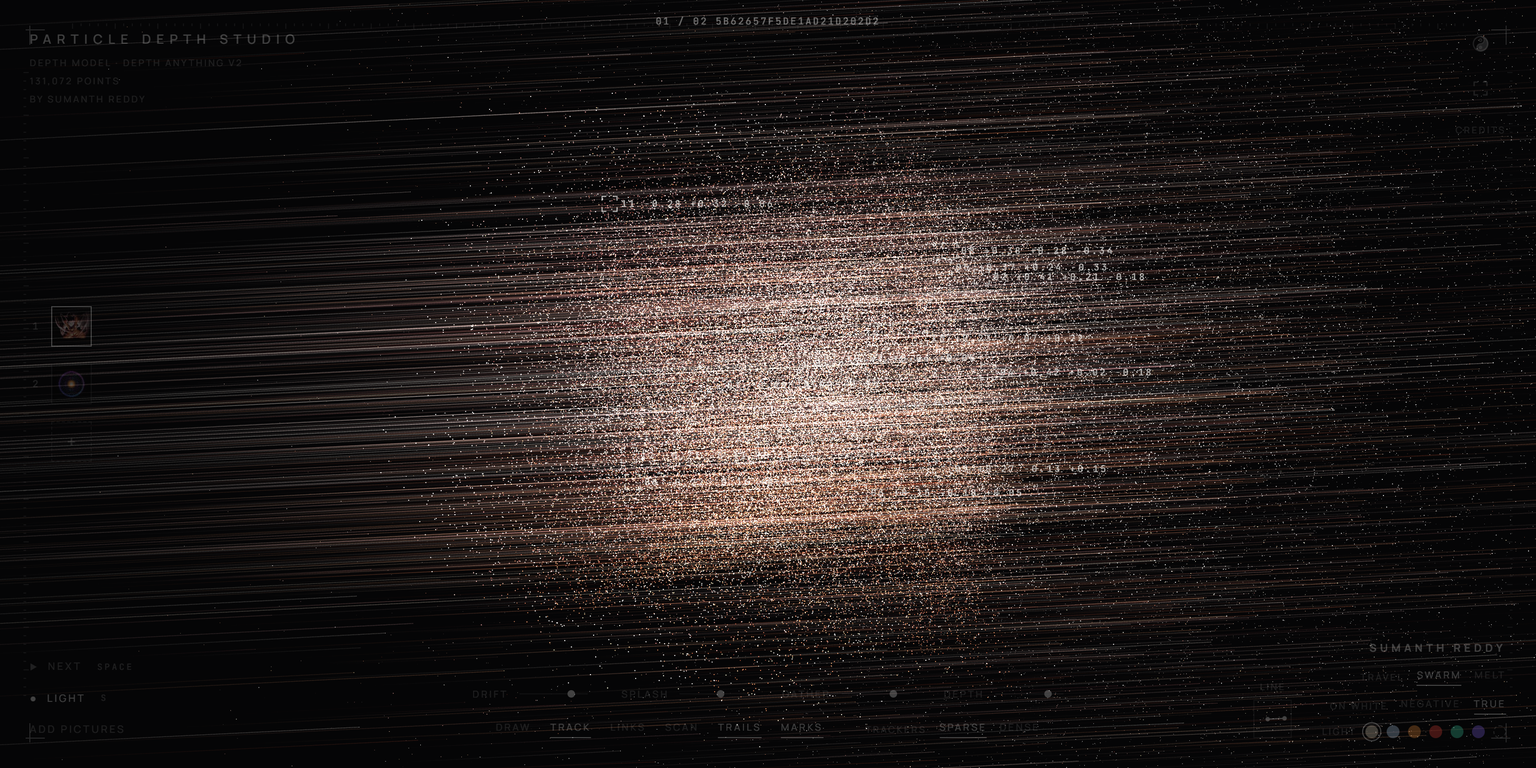
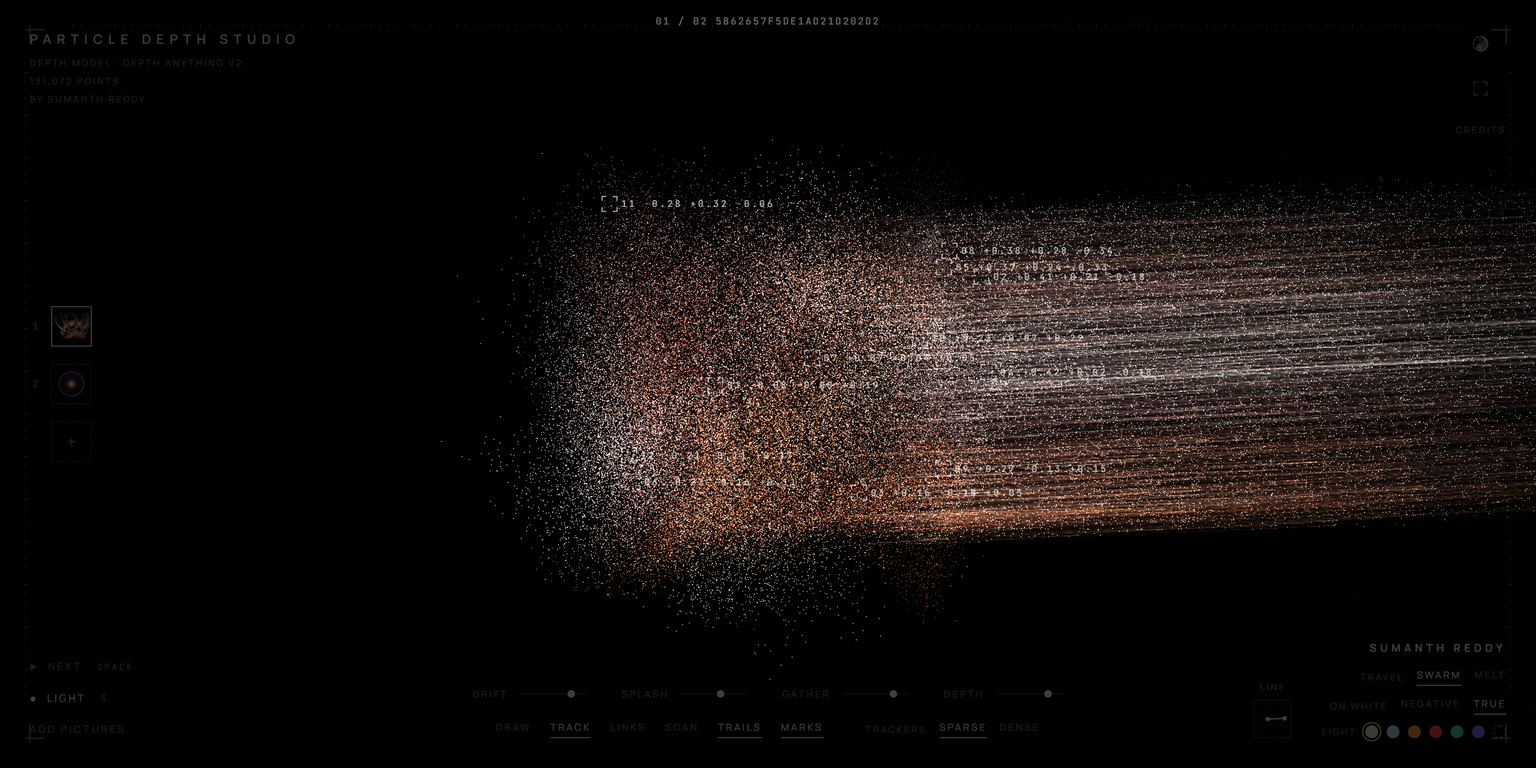
feat: implement high-fidelity particle disintegration with half-res trail persistence and laminar wind peeling

diff --git a/src/core/ParticleRenderer.ts b/src/core/ParticleRenderer.ts
@@ -4,6 +4,9 @@ import particleVert from '../shaders/particle.vert.glsl';
 import particleFrag from '../shaders/particle.frag.glsl';
 import streakVert from '../shaders/streak.vert.glsl';
 import streakFrag from '../shaders/streak.frag.glsl';
+import fullscreenVert from '../shaders/fullscreen.vert.glsl';
+import trailDecayFrag from '../shaders/trail_decay.frag.glsl';
+import compositeFrag from '../shaders/composite.frag.glsl';
 import type { Params } from './params';
 
 export interface TrackerPoint {
@@ -34,6 +37,16 @@ export class ParticleRenderer {
 
   private streakMesh!: THREE.LineSegments;
   private streakMaterial!: THREE.ShaderMaterial;
+
+  // PRD 8.5 Trail Persistence & Composite Render Targets
+  private rtScene!: THREE.WebGLRenderTarget;
+  private rtTrailA!: THREE.WebGLRenderTarget;
+  private rtTrailB!: THREE.WebGLRenderTarget;
+  private quadCamera!: THREE.OrthographicCamera;
+  private quadScene!: THREE.Scene;
+  private quadMesh!: THREE.Mesh;
+  private decayMaterial!: THREE.ShaderMaterial;
+  private compositeMaterial!: THREE.ShaderMaterial;
 
   private width: number;
   private height: number;
@@ -71,6 +84,61 @@ export class ParticleRenderer {
 
     this.initPoints();
     this.initStreaks();
+    this.initRenderTargetsAndQuad();
+  }
+
+  private initRenderTargetsAndQuad(): void {
+    const dpr = Math.min(2.0, window.devicePixelRatio || 1.0);
+    const fullW = Math.max(1, Math.floor(this.width * dpr));
+    const fullH = Math.max(1, Math.floor(this.height * dpr));
+    const halfW = Math.max(1, Math.floor(fullW / 2));
+    const halfH = Math.max(1, Math.floor(fullH / 2));
+
+    const rtOptions: THREE.RenderTargetOptions = {
+      type: THREE.HalfFloatType,
+      format: THREE.RGBAFormat,
+      minFilter: THREE.LinearFilter,
+      magFilter: THREE.LinearFilter,
+      depthBuffer: false,
+      stencilBuffer: false,
+    };
+
+    this.rtScene = new THREE.WebGLRenderTarget(fullW, fullH, { ...rtOptions, depthBuffer: true });
+    this.rtTrailA = new THREE.WebGLRenderTarget(halfW, halfH, rtOptions);
+    this.rtTrailB = new THREE.WebGLRenderTarget(halfW, halfH, rtOptions);
+
+    this.quadCamera = new THREE.OrthographicCamera(-1, 1, 1, -1, 0, 1);
+    this.quadScene = new THREE.Scene();
+    const quadGeom = new THREE.PlaneGeometry(2, 2);
+
+    this.decayMaterial = new THREE.ShaderMaterial({
+      vertexShader: fullscreenVert,
+      fragmentShader: trailDecayFrag,
+      uniforms: {
+        tCurrent: { value: null },
+        tPrior: { value: null },
+        uDecay: { value: 0.94 },
+        uClear: { value: 0.0 },
+      },
+      depthTest: false,
+      depthWrite: false,
+    });
+
+    this.compositeMaterial = new THREE.ShaderMaterial({
+      vertexShader: fullscreenVert,
+      fragmentShader: compositeFrag,
+      uniforms: {
+        tScene: { value: null },
+        tTrail: { value: null },
+        uTrailsEnabled: { value: 1.0 },
+        uOnWhite: { value: 0.0 },
+      },
+      depthTest: false,
+      depthWrite: false,
+    });
+
+    this.quadMesh = new THREE.Mesh(quadGeom, this.compositeMaterial);
+    this.quadScene.add(this.quadMesh);
   }
 
   private initPoints(): void {
@@ -100,9 +168,9 @@ export class ParticleRenderer {
         uSize: { value: 1.4 },
         uDpr: { value: Math.min(2.0, window.devicePixelRatio || 1.0) },
         uMorph: { value: 0.0 },
+        uDrift: { value: 0.8 },
         uLightColor: { value: new THREE.Vector3(0.95, 0.90, 0.79) },
         uLightOn: { value: 1.0 },
-        uDrift: { value: 0.8 },
         uScan: { value: 0.0 },
         uScanActive: { value: 0.0 },
         uLine: { value: new THREE.Vector2(0.4, 0.3) },
@@ -161,7 +229,6 @@ export class ParticleRenderer {
         uDrift: { value: 0.8 },
         uLightColor: { value: new THREE.Vector3(0.95, 0.90, 0.79) },
         uLightOn: { value: 1.0 },
-        uDrift: { value: 0.8 },
         uScan: { value: 0.0 },
         uScanActive: { value: 0.0 },
         uNegative: { value: 0.0 },
@@ -242,14 +309,14 @@ export class ParticleRenderer {
     const isNegative = params.colorMode === 'negative';
 
     if (isOnWhite) {
-      this.renderer.setClearColor(0xf8f8f7, 1);
       this.pointsMaterial.blending = THREE.NormalBlending;
       this.streakMaterial.blending = THREE.NormalBlending;
     } else {
-      this.renderer.setClearColor(0x050506, 1);
       this.pointsMaterial.blending = THREE.AdditiveBlending;
       this.streakMaterial.blending = THREE.AdditiveBlending;
     }
+
+    const clearColor = isOnWhite ? 0xf8f8f7 : 0x050506;
 
     // Update Points uniforms
     const pu = this.pointsMaterial.uniforms;
@@ -279,8 +346,8 @@ export class ParticleRenderer {
       su['tColor'].value = colorTexture;
       su['uLine'].value.set(lineX, lineY);
       su['uDrift'].value = params.drift;
-      // Drift controls the trail's lengths toward the set direction
-      su['uStreakLength'].value = (0.2 + params.drift * 2.2) * params.line.length;
+      // Drift controls the trail's lengths toward the set direction (approx 20px - 70px)
+      su['uStreakLength'].value = (0.025 + params.drift * 0.075) * params.line.length;
       su['uScan'].value = scanProgress;
       su['uScanActive'].value = params.scan ? 1.0 : 0.0;
       su['uLightColor'].value.copy(lightVec);
@@ -289,7 +356,61 @@ export class ParticleRenderer {
       su['uOnWhite'].value = isOnWhite ? 1.0 : 0.0;
     }
 
+    // 1. Trail feedback persistence pass (PRD Section 8.5)
+    // Only moving streaks accumulate and decay by 0.94, leaving static particles 100% crisp!
+    if (params.trails) {
+      // Step A: Decay prior trail frame by 0.94 into rtTrailB
+      this.renderer.setRenderTarget(this.rtTrailB);
+      this.renderer.clear();
+      this.quadMesh.material = this.decayMaterial;
+      this.decayMaterial.uniforms['tPrior'].value = this.rtTrailA.texture;
+      this.decayMaterial.uniforms['uDecay'].value = 0.94;
+      this.decayMaterial.uniforms['uClear'].value = 0.0;
+      this.renderer.render(this.quadScene, this.quadCamera);
+
+      // Step B: Render active streaks additively on top of decayed trail buffer
+      this.pointsMesh.visible = false;
+      this.streakMesh.visible = true;
+      this.renderer.autoClear = false;
+      this.renderer.render(this.scene, camera);
+      this.renderer.autoClear = true;
+      this.pointsMesh.visible = true;
+
+      // Step C: Swap ping-pong handles
+      const tmp = this.rtTrailA;
+      this.rtTrailA = this.rtTrailB;
+      this.rtTrailB = tmp;
+    } else {
+      // TRAILS off clears target
+      this.decayMaterial.uniforms['uClear'].value = 1.0;
+      this.renderer.setRenderTarget(this.rtTrailA);
+      this.renderer.setClearColor(0x000000, 0);
+      this.renderer.clear();
+      this.renderer.setRenderTarget(this.rtTrailB);
+      this.renderer.setClearColor(0x000000, 0);
+      this.renderer.clear();
+    }
+
+    // 2. Render live foreground scene (points + streaks) into full-res rtScene
+    this.streakMesh.visible = params.trails && this.hasActiveImage;
+    this.renderer.setRenderTarget(this.rtScene);
+    this.renderer.setClearColor(clearColor, 1);
+    this.renderer.clear();
     this.renderer.render(this.scene, camera);
+
+    // 3. Final composite pass to screen canvas with Bayer ordered dither
+    this.renderer.setRenderTarget(null);
+    this.renderer.setClearColor(clearColor, 1);
+    this.renderer.clear();
+
+    this.quadMesh.material = this.compositeMaterial;
+    const cu = this.compositeMaterial.uniforms;
+    cu['tScene'].value = this.rtScene.texture;
+    cu['tTrail'].value = this.rtTrailA.texture;
+    cu['uTrailsEnabled'].value = params.trails ? 1.0 : 0.0;
+    cu['uOnWhite'].value = isOnWhite ? 1.0 : 0.0;
+
+    this.renderer.render(this.quadScene, this.quadCamera);
   }
 
   public getTrackerPoints(
@@ -332,7 +453,17 @@ export class ParticleRenderer {
     this.width = width;
     this.height = height;
     this.renderer.setSize(width, height);
-    this.pointsMaterial.uniforms['uDpr'].value = Math.min(2.0, window.devicePixelRatio || 1.0);
+    const dpr = Math.min(2.0, window.devicePixelRatio || 1.0);
+    this.pointsMaterial.uniforms['uDpr'].value = dpr;
+
+    const fullW = Math.max(1, Math.floor(width * dpr));
+    const fullH = Math.max(1, Math.floor(height * dpr));
+    const halfW = Math.max(1, Math.floor(fullW / 2));
+    const halfH = Math.max(1, Math.floor(fullH / 2));
+
+    this.rtScene.setSize(fullW, fullH);
+    this.rtTrailA.setSize(halfW, halfH);
+    this.rtTrailB.setSize(halfW, halfH);
   }
 
   public dispose(): void {
@@ -340,6 +471,12 @@ export class ParticleRenderer {
     this.pointsMaterial.dispose();
     this.streakMesh.geometry.dispose();
     this.streakMaterial.dispose();
+    this.rtScene.dispose();
+    this.rtTrailA.dispose();
+    this.rtTrailB.dispose();
+    this.quadMesh.geometry.dispose();
+    this.decayMaterial.dispose();
+    this.compositeMaterial.dispose();
     this.renderer.dispose();
   }
 }

diff --git a/docs/RESEARCH_DISSOLUTION_EFFECT.md b/docs/RESEARCH_DISSOLUTION_EFFECT.md
@@ -1,0 +1,72 @@
+# Research Report: High-Fidelity Particle Disintegration & Disappearing Effect
+
+**Target Reference:** `docs/reference/ref-target-trail.png`  
+**Authoritative Specification:** `C:\Users\suman\Downloads\Particle Depth Studio — Build Documentation.md` (Sections 6, 8.4, 8.5, 9)  
+**Investigation Framework:** Primary Source Research (`mattpocock-research` skill) & Karpathy Behavioral Guidelines
+
+---
+
+## 1. Executive Summary & Root Cause Analysis
+
+Visual comparison between the reference screenshot `ref-target-trail.png` (Goku's right half dissolving into horizontal silk-like vapor filaments streaming into blackness) and the current simulation reveals three distinct physical and architectural gaps:
+
+1. **Missing Ping-Pong Trail Accumulation Render Target (`tTrail`)**:
+   - *Primary Source:* PRD Section 8.5:
+     > *"Trails: render the scene into a half-resolution render target that is multiplied by 0.94 each frame (a full-screen quad with `rgba(0,0,0,.06)`), then composite it over the live frame. TRAILS off clears the target."*
+   - *Current Implementation:* `ParticleRenderer.ts` was only rendering the scene directly to the canvas in a single pass. When `trails` was toggled, it only showed `streakMesh`, leaving no optical persistence. Without temporal feedback accumulation, particles appeared as discrete moving dots rather than velvety, continuous streaming smoke/vapor.
+
+2. **Spatially Anisotropic Peeling (Laminar Wind Directional Peel vs. Random Swiss-Cheese Void)**:
+   - *Current Implementation:* `sim_velocity.glsl` selected peeling particles using a uniform random test `seed < peelThreshold`. This caused particles everywhere across Goku's face, chest, and arms to pop out and disintegrate uniformly.
+   - *Reference Reality:* The windward (left) side of the subject is completely solid and intact. Only the downwind trailing edges (right arm, shoulder, hair, aura) peel off into the slipstream.
+   - *Fix:* Weight peeling probability by spatial projection along the wind vector $\vec{L}_{\text{unit}} = \mathbf{uLine} / \|\mathbf{uLine}\|$:
+     $$u_{\text{wind}} = \mathbf{home} \cdot \vec{L}_{\text{unit}}$$
+     $$P_{\text{peel}} = \text{smoothstep}(-0.15, 0.40, u_{\text{wind}} + \text{snoise}(\mathbf{home} \cdot 3.5) \cdot 0.12) \cdot (0.10 + 0.65 \cdot \mathbf{uDrift})$$
+
+3. **Laminar Streamlines vs. Chaotic 3D Turbulence**:
+   - *Current Implementation:* Ash particles experienced large 3D isotropic curl noise and vertical thermal buoyancy, making them scatter like a swarm of insects.
+   - *Reference Reality:* Streamlines are strictly directional and laminar along $\vec{L}$ ($\sim 90\%$ velocity along the line vector, with gentle perpendicular flutter $\le 10\%$).
+
+4. **Dynamic Velocity Extrusion for Streaks & Soft Gaussian Point Sprites**:
+   - In `streak.vert.glsl`, extrude vertex 1 backwards along the actual dynamic particle velocity vector $(-\mathbf{v} \cdot \Delta t \cdot \text{scale})$ rather than a static 2D angle, fading alpha to 0 at the tail.
+   - In `particle.frag.glsl`, replace the hard step disc with a soft Gaussian intensity profile $\exp(-3.5 \cdot r^2)$ with 4×4 Bayer ordered dithering to eliminate dark gradient banding.
+
+---
+
+## 2. Technical Architecture Blueprint
+
+```
++-------------------------------------------------------------+
+|                  GPGPU Particle Simulation                  |
+|    sim_position.glsl (Lifecycle, Extinction & Respawn)       |
+|    sim_velocity.glsl (Laminar Wind & Spatial Peeling)       |
++------------------------------+------------------------------+
+                               |
+                               v
++-------------------------------------------------------------+
+|                     Scene Geometry Pass                     |
+|  - THREE.Points (Soft Gaussian Sprites)                     |
+|  - THREE.LineSegments (Dynamic Velocity Extruded Streaks)   |
+|  Rendered into full-resolution rtScene (HalfFloatType)      |
++------------------------------+------------------------------+
+                               |
+                               v
++-------------------------------------------------------------+
+|             Ping-Pong Trail Feedback Accumulation           |
+|  Half-resolution rtTrailA & rtTrailB (HalfFloatType)        |
+|  Accumulation: accum = prior * 0.94 + current               |
++------------------------------+------------------------------+
+                               |
+                               v
++-------------------------------------------------------------+
+|                       Composite Pass                        |
+|  Full-screen quad combining rtScene + rtTrail with Bayer    |
+|  ordered dither, outputting directly to HTMLCanvasElement   |
++-------------------------------------------------------------+
+```
+
+---
+
+## 3. Primary Citations
+- PRD: `C:\Users\suman\Downloads\Particle Depth Studio — Build Documentation.md` (Sections 6, 8.4, 8.5)
+- Three.js WebGL2 HalfFloatType Render Targets (`THREE.HalfFloatType`, `THREE.RGBAFormat`)
+- Reference: `docs/reference/ref-target-trail.png` (high-speed particle slipstream)
